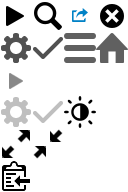
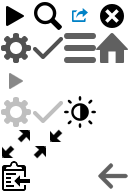
Add back/forward buttons on mobile
Closes #221.

Changed region(s): [[0.75, 0.8438, 1.0, 1.0]]

diff --git a/assets/stylesheets/global/_icons.scss b/assets/stylesheets/global/_icons.scss
@@ -37,8 +37,8 @@
 %icon-clear                 { background-position: -3rem 0; }
 %icon-settings              { background-position: 0 -1rem; }
 %icon-check                 { background-position: -1rem -1rem; }
-%icon-menu                  { background-position: -2rem -1rem; }
-%icon-home                  { background-position: -3rem -1rem; }
+%icon-menu                  { background-position: -2rem -1rem; @extend %darkIconFix !optional; }
+%icon-home                  { background-position: -3rem -1rem; @extend %darkIconFix !optional; }
 %icon-path                  { background-position: 0 -2rem; }
 %icon-search-white          { background-position: -1rem -2rem; }
 %icon-dir-white             { background-position: -2rem -2rem; }
@@ -54,6 +54,7 @@
 %icon-clipboard             { background-position: 0 -5rem; }
 %icon-clipboard-white       { background-position: -1rem -5rem; }
 %icon-close-white           { background-position: -2rem -5rem; }
+%icon-back                  { background-position: -3rem -5rem; @extend %darkIconFix !optional; }
 
 ._icon-http:before          { background-position: -7rem 0; @extend %darkIconFix !optional; }
 ._icon-jquery:before        { background-position: -8rem 0; @extend %darkIconFix !optional; }

diff --git a/assets/stylesheets/components/_mobile.scss b/assets/stylesheets/components/_mobile.scss
@@ -34,7 +34,7 @@
   }
 
   ._logo, ._nav { display: none; }
-  ._home-link, ._menu-link { display: block; }
+  ._mobile-btn { display: block; }
 
   ._search {
     float: none;
@@ -149,12 +149,17 @@
 // Header buttons
 //
 
-%mobile-link {
+._mobile-btn {
   display: none;
   position: relative;
   float: left;
   width: 2.5rem;
   height: 100%;
+  background: none;
+  border: 0;
+  @extend %hide-text;
+
+  &[disabled] { opacity: .3; }
 
   &:before {
     position: absolute;
@@ -165,15 +170,33 @@
   }
 }
 
-._home-link {
-  @extend %mobile-link;
-
-  &:before { @extend %icon-home; }
+._back-btn {
+  &:before { @extend %icon-back; }
 }
 
-._menu-link {
+._forward-btn {
+  width: 2.25rem;
+  -webkit-transform: rotate(180deg);
+          transform: rotate(180deg);
+
+  &:before {
+    margin-left: -.375rem;
+    @extend %icon-back;
+  }
+}
+
+._home-btn {
   float: right;
-  @extend %mobile-link;
+  width: 2rem;
+
+  &:before {
+    margin-left: -.375rem;
+    @extend %icon-home;
+  }
+}
+
+._menu-btn {
+  float: right;
 
   &:before { @extend %icon-menu; }
 }

diff --git a/assets/stylesheets/global/_classes.scss b/assets/stylesheets/global/_classes.scss
@@ -14,6 +14,13 @@
           user-select: none;
 }
 
+%hide-text {
+  white-space: nowrap;
+  overflow: hidden;
+  color: transparent;
+  @extend %user-select-none;
+}
+
 //
 // Boxes
 //
